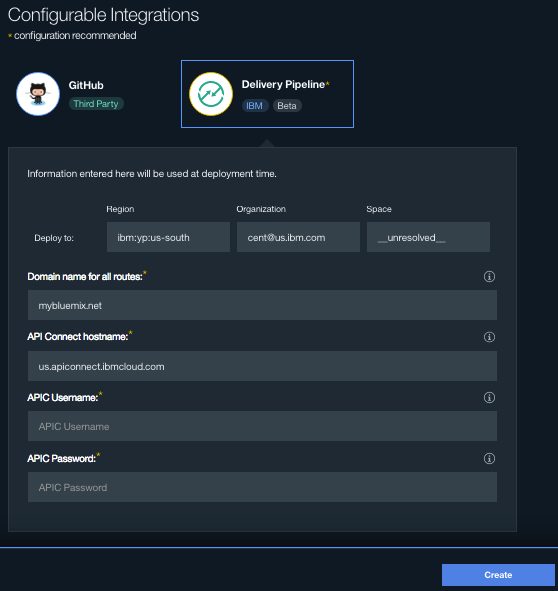
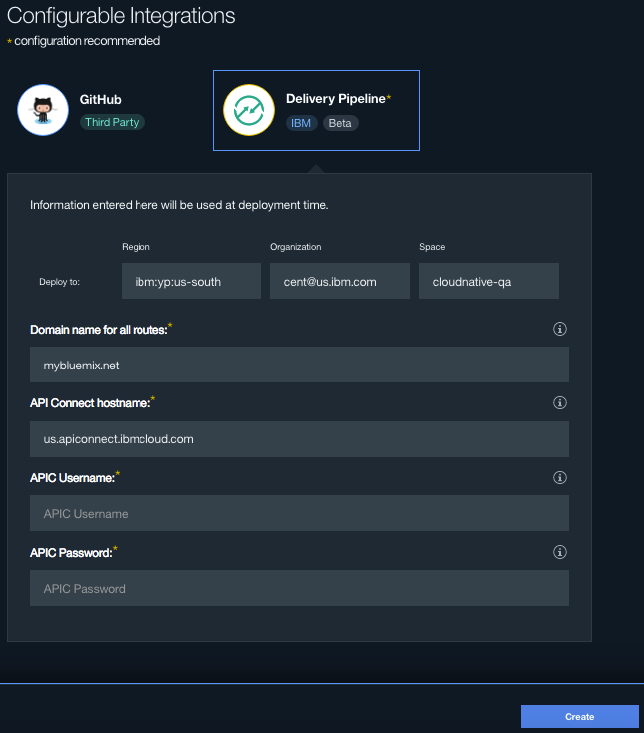
add imgs and updates to documentation

diff --git a/README.md b/README.md
@@ -46,17 +46,18 @@ Click the following button to deploy the toolchain to Bluemix. The Bluemix DevOp
 1. Enter toolchain name in the **Name:** field. ![Create Toolchain](static/imgs/create-toolchain.png)
 2. By default, the **GitHub** integration is configured to clone the associated git repos to your GitHub account. Click on **GitHub** integration to see the list of repos that are setup to clone to your account.
 3. Click on **Delivery Pipeline** integration to do the configuration.
-4. Update __Region__, __Organization__, and __Space__. Adjust the __Domain name__ and __API Connect hostname__ to match the region. Also enter __APIC Username__ and __Password__. Click **Create** to create the toolchain. ![Configure Delivery Pipeline](static/imgs/configure-delivery-pipeline.png)
+4. By default the Bluemix Region, Organization, and Space information will be filled with the logged in Region, Organization, and Space values. Double-check to ensure this is the desired Region, Organization, and Space this toolchain should deploy to and update __Region__, __Organization__, and __Space__ values accordingly.
+5. Adjust the __Domain name__ and __API Connect hostname__ to match the region. Also enter __APIC Username__ and __Password__. Click **Create** to create the toolchain. ![Configure Delivery Pipeline](static/imgs/configure-delivery-pipeline.png)
 5. Click on **View Toolchain** to go to the toolchain page. This toolchain will create and integrate eight GitHub repos with Issues enabled, and eight Delivery Pipelines each connected to one of the integrated GitHub repos. Configuration data is shared between all the delivery pipelines.
 
 ### Step 3: Execute the toolchain
 1. Click on **inventorydb-mysql** delivery pipeline, and click the play button on BUILD stage to initiate the build and deployment of MySQL container running the **inventorydb** database.
-2. After the BUILD stage completes successfully it will automatically trigger the DEPLOY stage. Stay on the pipeline page to ensure both the BUILD and DEPLOY stages completed successfully.
+2. After the BUILD stage completes successfully it will automatically trigger the DEPLOY stage. Stay on the pipeline page to ensure both the BUILD and DEPLOY stages completed successfully. ![Successfully Deployed Pipeline](static/imgs/inventorydb-mysql-pipeline.png)
 3. Repeat above two steps for each delivery pipeline in the following order: **netflix-eureka**, **netflix-zuul**, **micro-inventory**, **micro-socialreview**, **bff-inventory**, **api**, **bff-socialreview**.
 
 This completes the creation of Bluemix DevOps toolchain to deploy the BlueCompute omnichannel application.
 
-### Step 5: Complete the solution
+### Step 4: Complete the solution
 
 After successfully running all the DevOps pipelines, you have the entire BlueCompute backend ready on IBM Cloud. There are 3 tasks remaining to get the BlueCompute application (both Mobile and Web) working:
 
